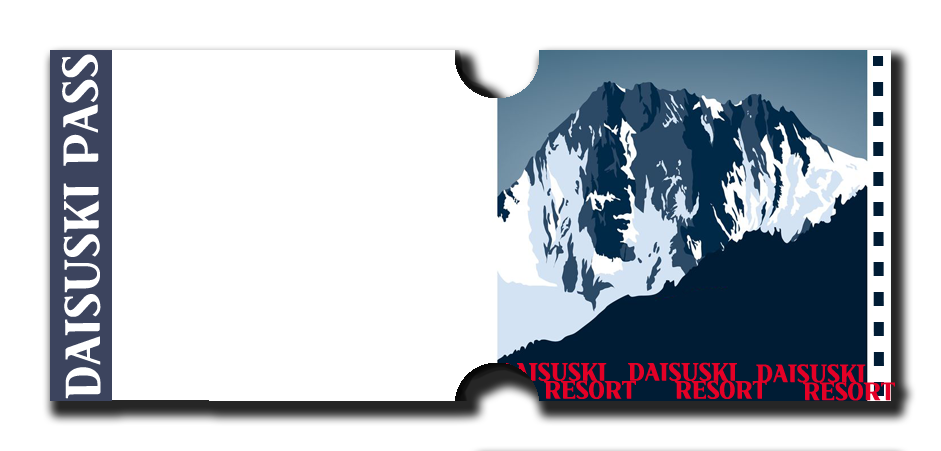
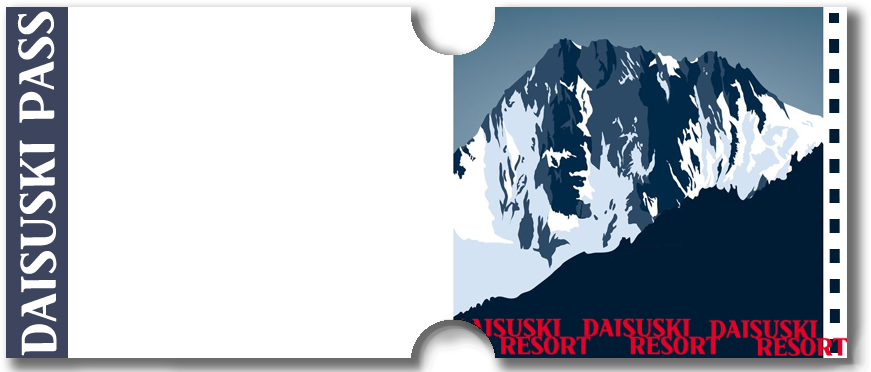
디자인작업 ver0.1

diff --git a/spring-ski-resort/src/main/webapp/resources/css/rental/item_reserve.css b/spring-ski-resort/src/main/webapp/resources/css/rental/item_reserve.css
@@ -422,13 +422,12 @@
 
 .lift-name{
 	width: 800px;
-	height: 280px;
+	height: 300px;
 	margin-top: 10px;
 	background-image: url("/resources/etc/design/티켓.png");
 	background-size: 100% 100%;
 	background-repeat: no-repeat;
 	margin-left: 150px;
-	box-shadow: 10px 10px 10px rgba(0, 0, 0, 0.7);
 	z-index: 1;
 }
 
